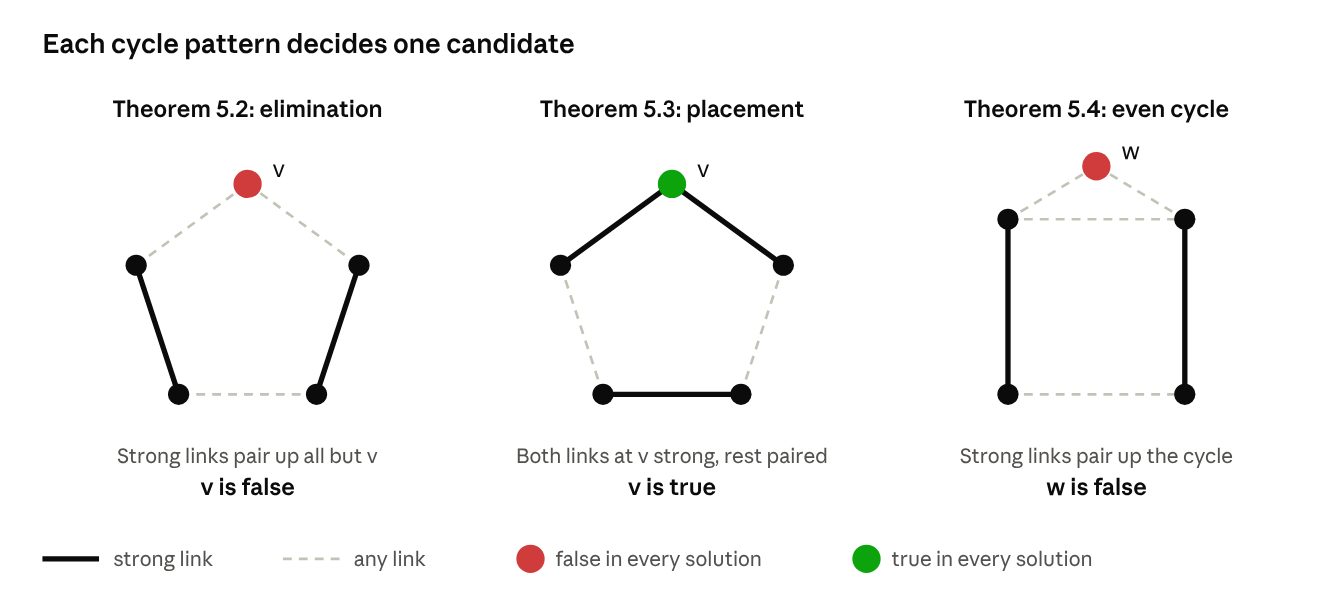
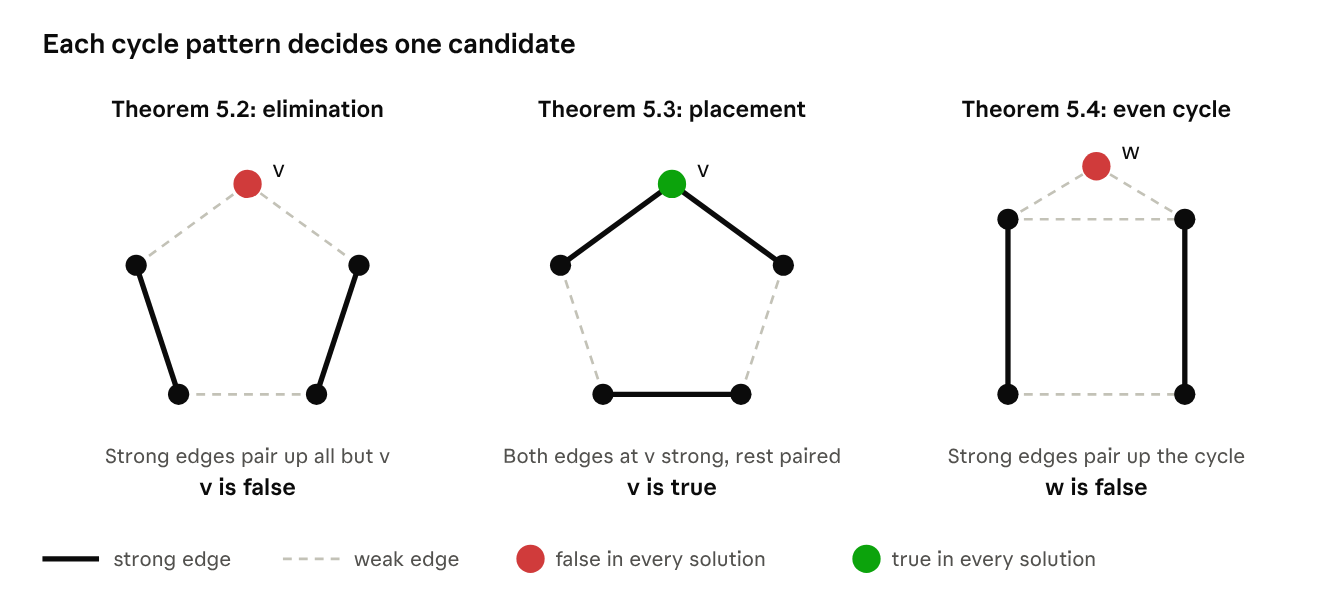
Figures: redraw write-up diagrams with node/edge wording and American spelling; retake README screenshots
Claude-Session: https://claude.ai/code/session_0161PMRBv2Fxor83Lofabj9S

diff --git a/README.md b/README.md
@@ -32,7 +32,7 @@ Assume one candidate is true and color the graph in two colors, true and false. 
 
 **3. Strong edges form a bipartite graph.** Across a strong edge the colors always differ, so each connected piece has only two colorings: one color all true, the other all false. A node adjacent to both colors is false. That is Simple Coloring and 3D Medusa.
 
-![A component of strong edges can be colored in only two ways](writeup/figures/fig09.png)
+![A component of strong edges can be solved in only two ways](writeup/figures/fig09.png)
 
 **4. Odd loops break the coloring.** On an odd loop some edge has both ends false, and it cannot be a strong one. When strong edges pair up every node but one, that node is false. Skyscraper, Two-String Kite, Turbot Fish and XY-Wing are all this picture.
 
